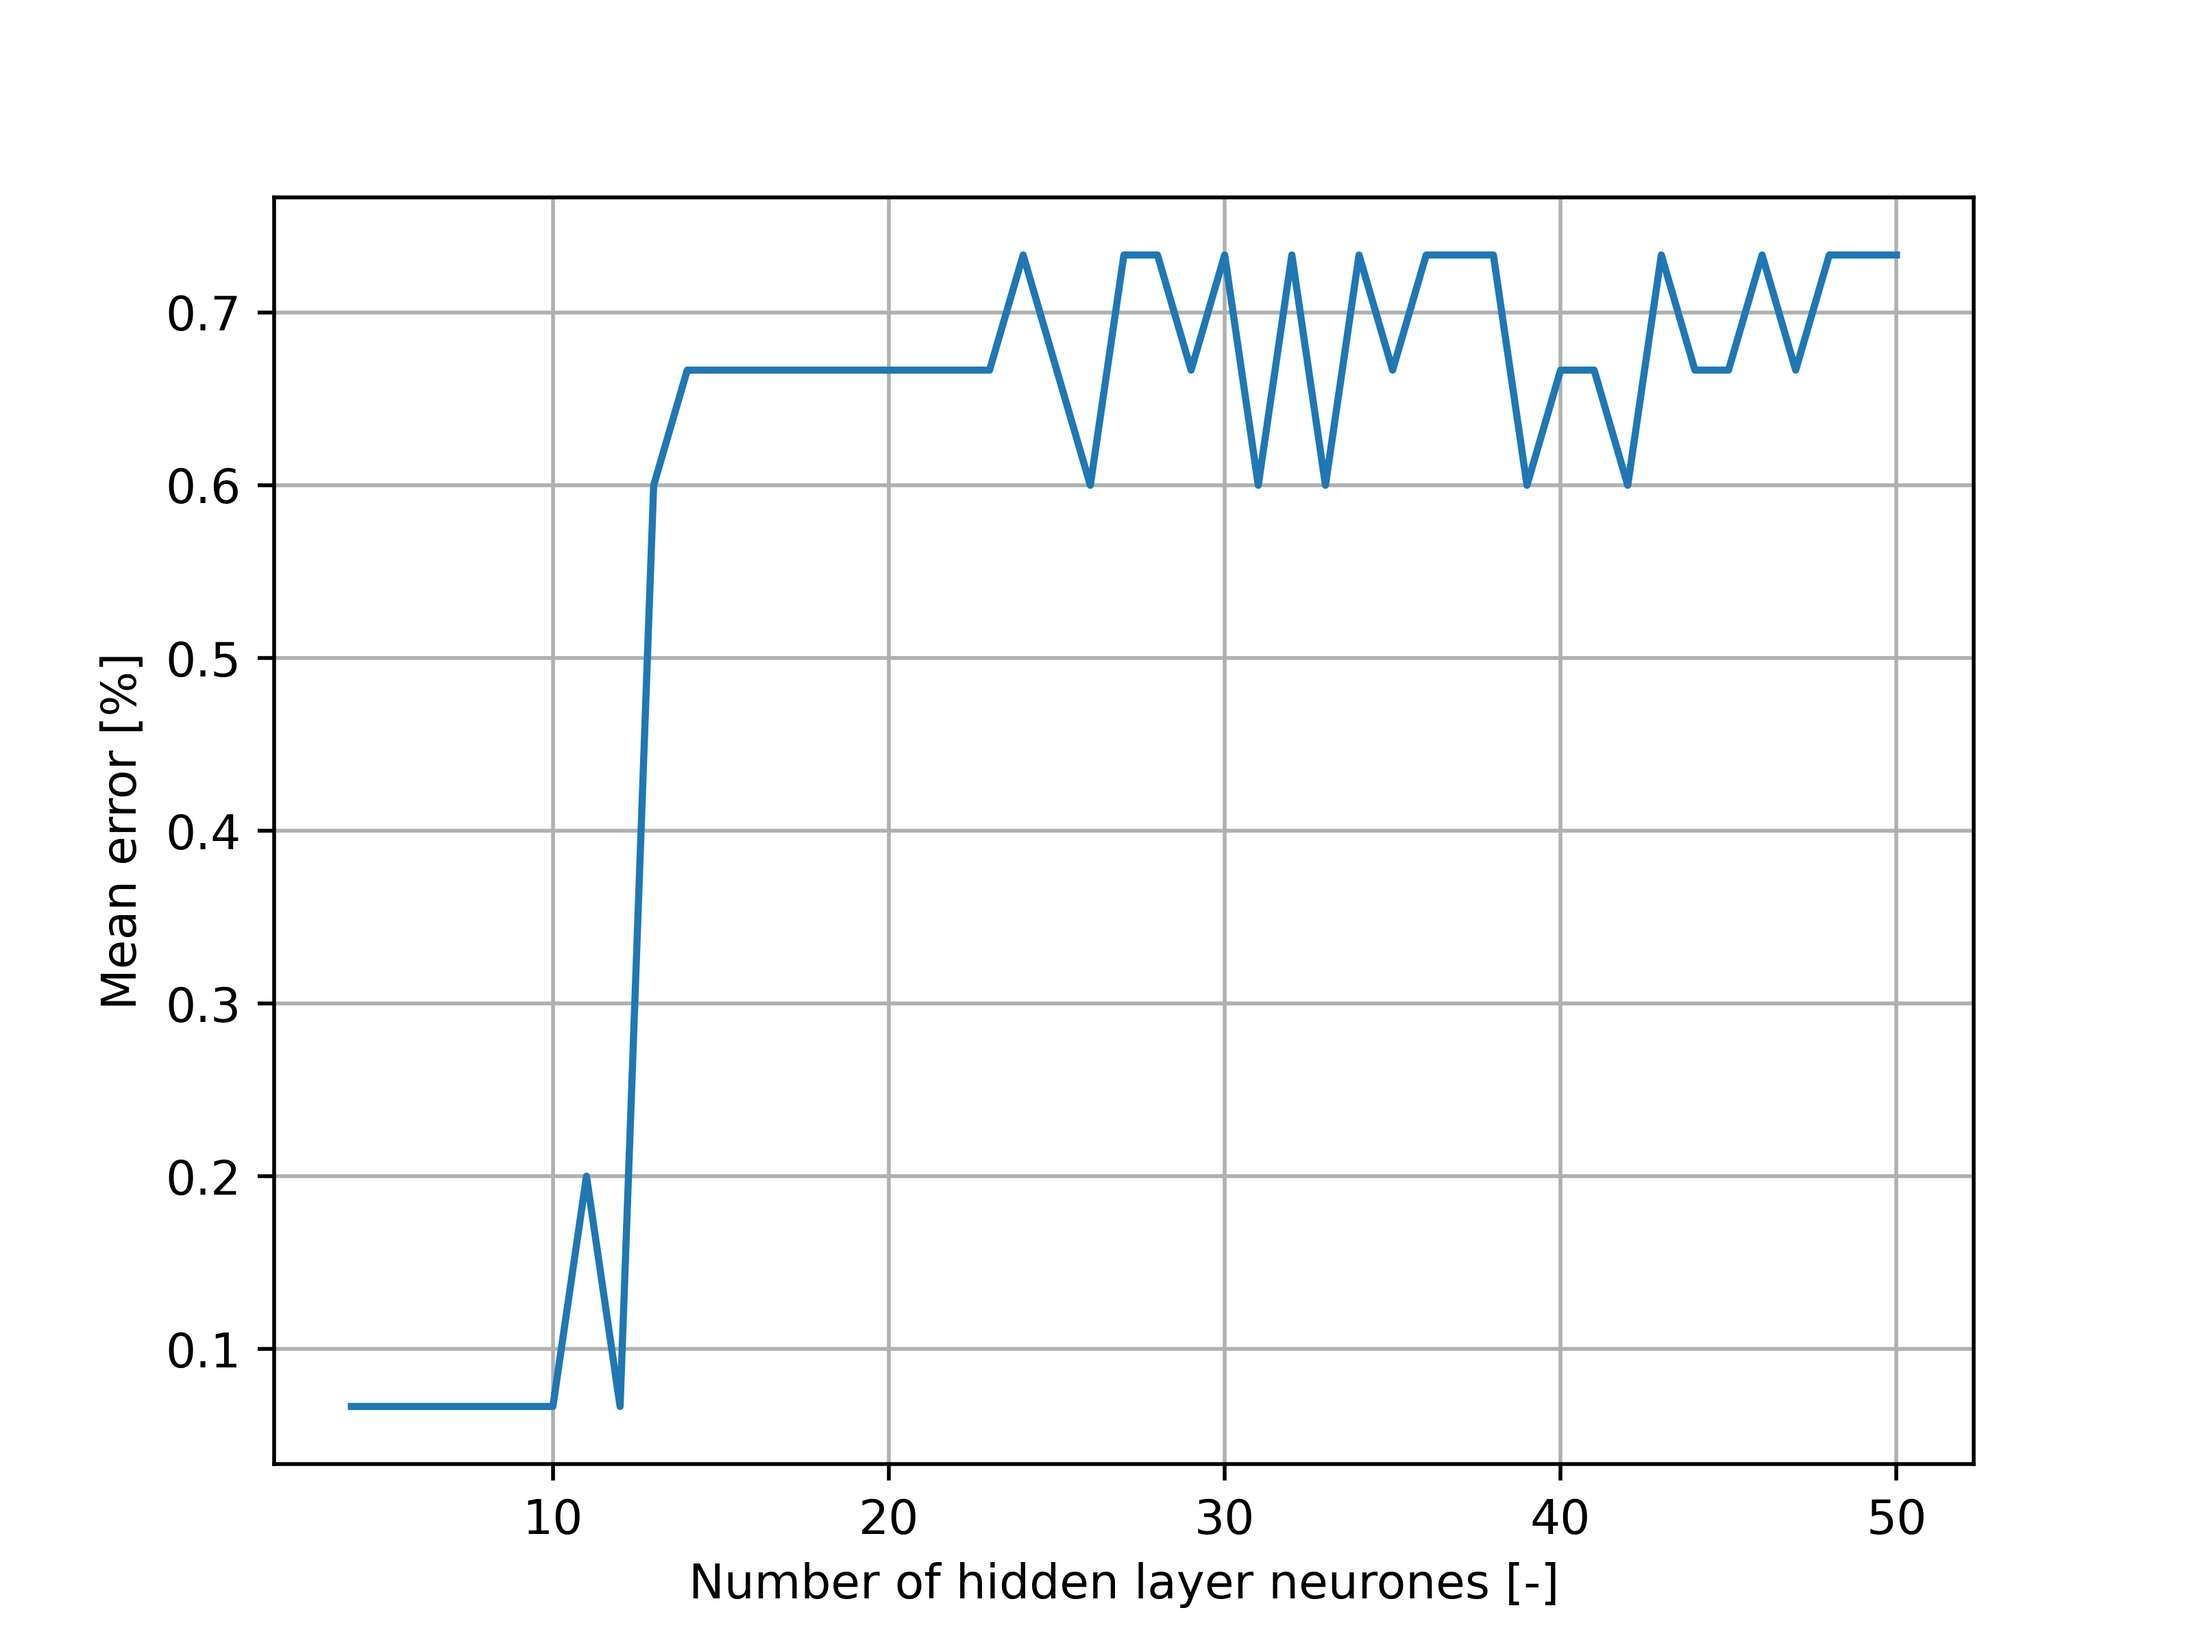
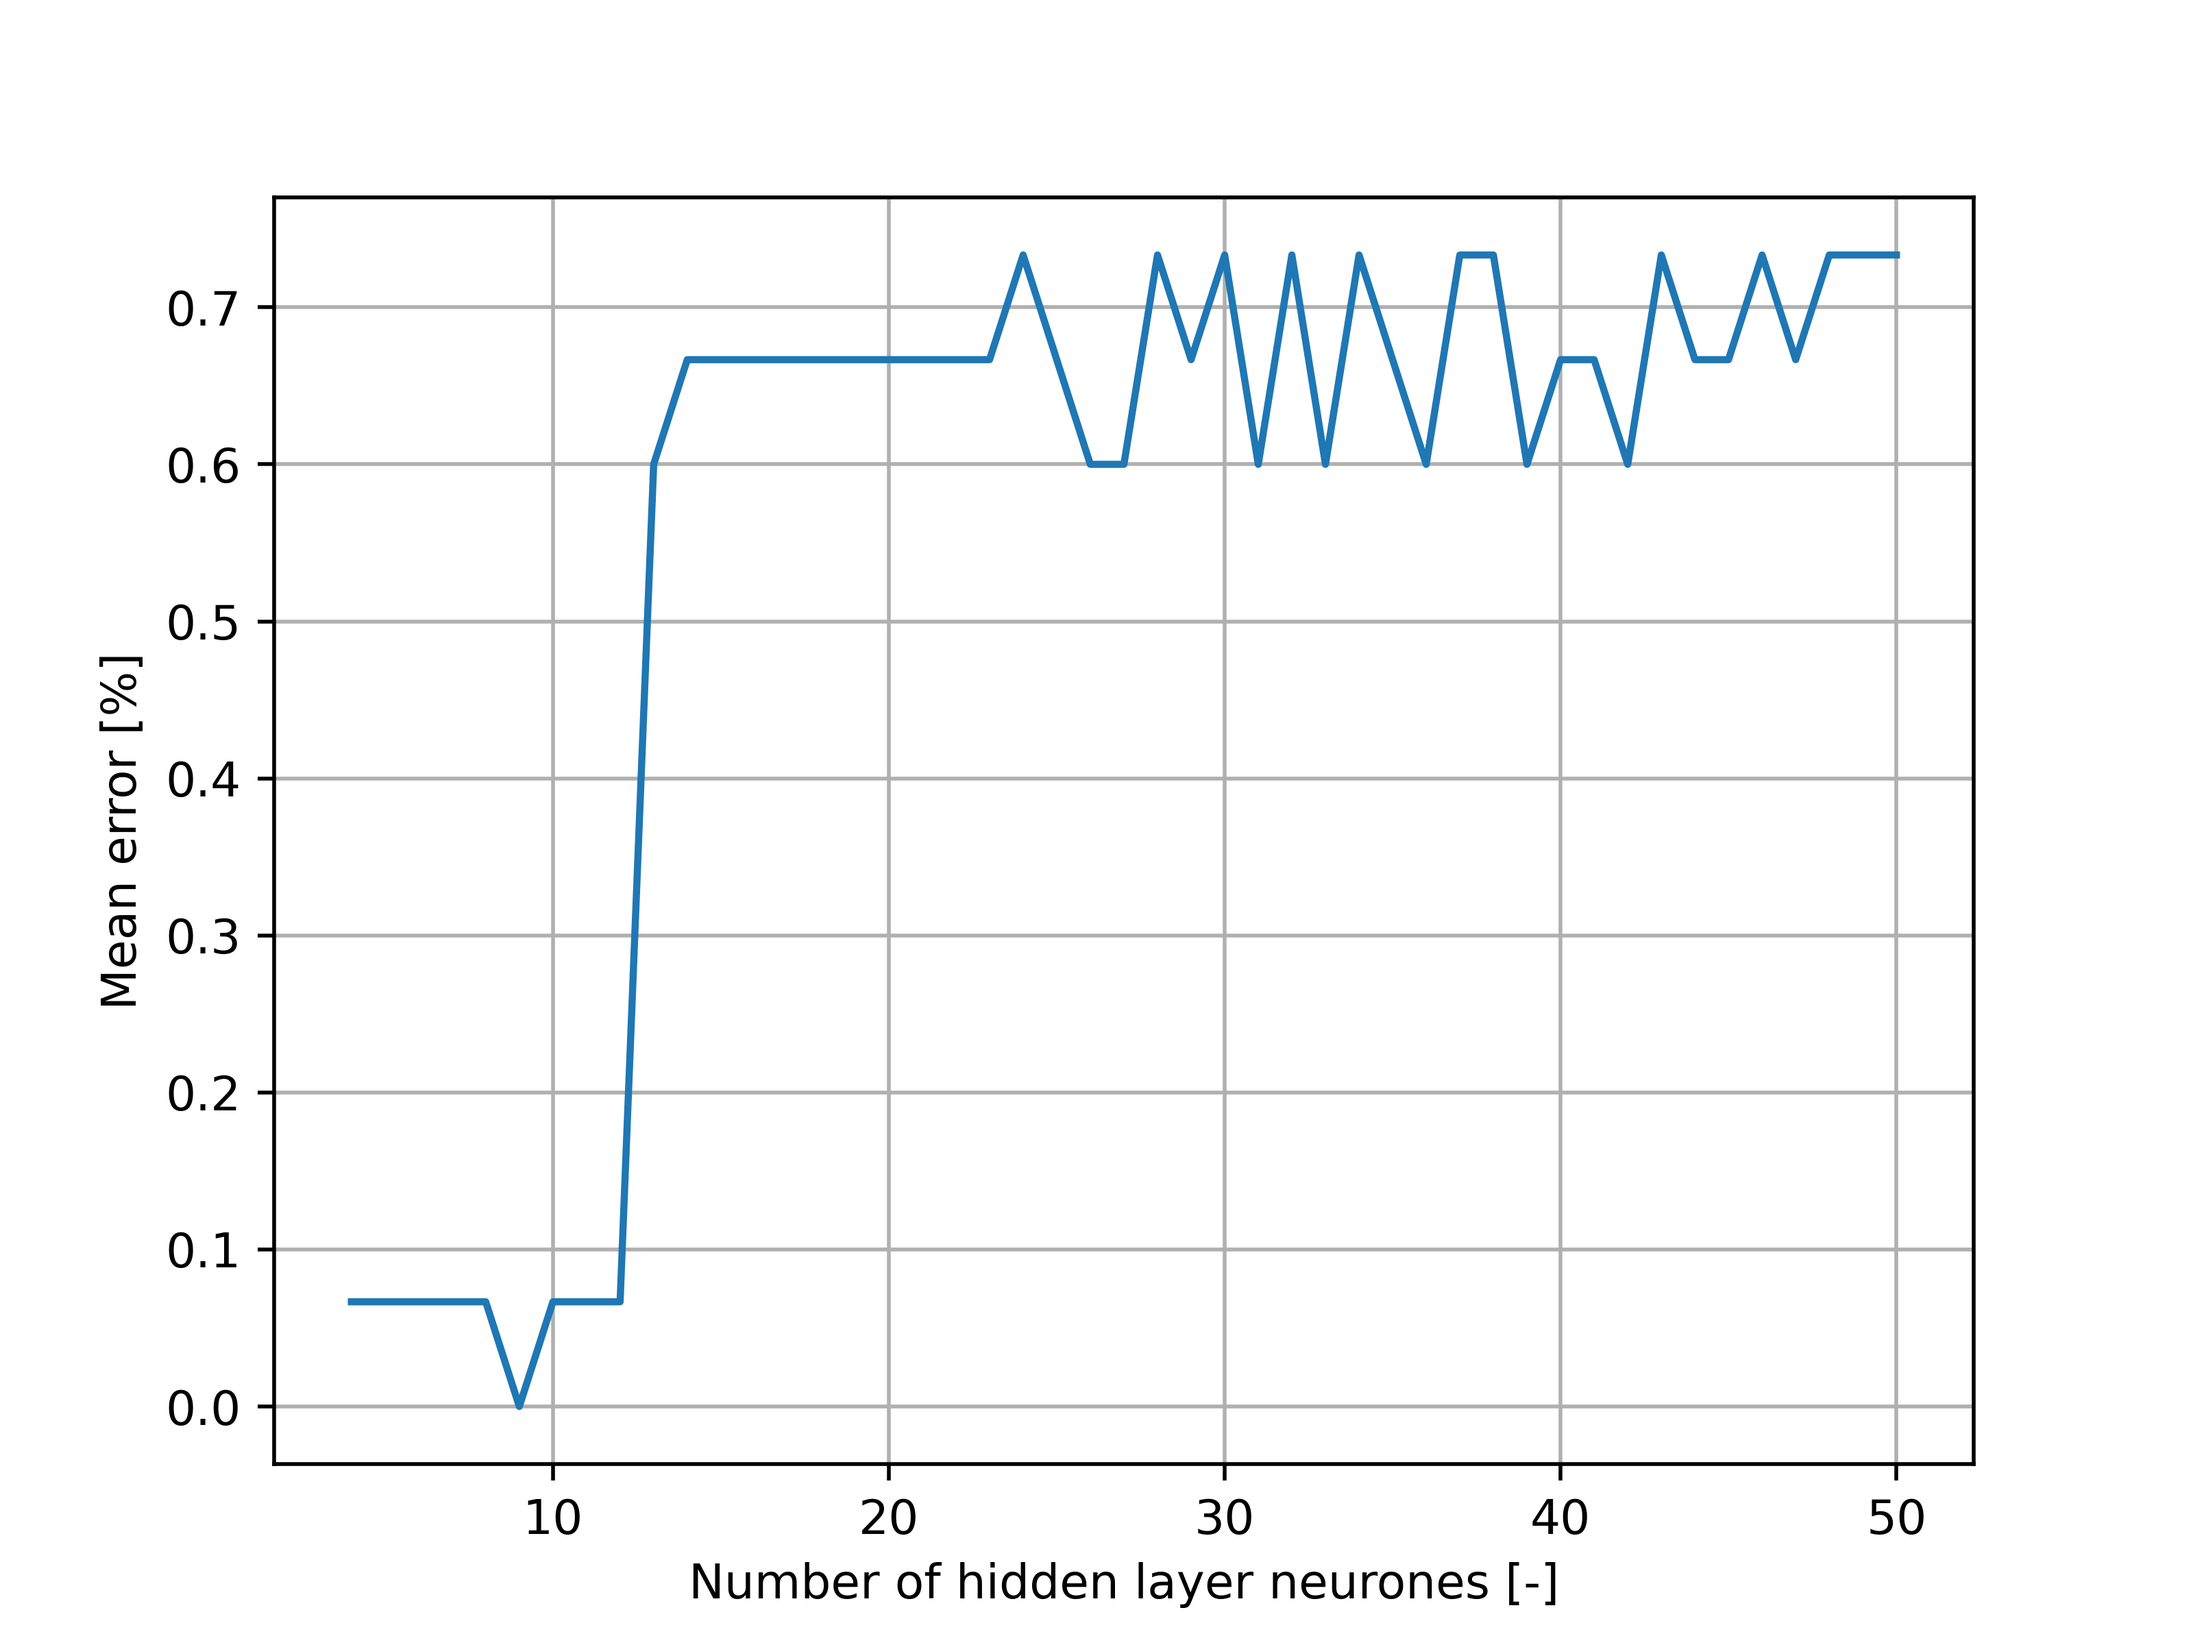
avec res

diff --git a/Projet Final AI/Code/NeuralNet.py b/Projet Final AI/Code/NeuralNet.py
@@ -373,9 +373,9 @@ class NeuralNet(Classifier):
             a = nn.test2(k_split_train[k - 1], k_split_train_labels[k - 1], False)
             mean_errors.append(1.0 - a)
             n_neurone.append(i)
+            plt.clf()
         if plot_results:
             plt.plot(n_neurone, mean_errors)
-            plt.legend()
             plt.grid()
             plt.xlabel("Number of hidden layer neurones [-]")
             plt.ylabel("Mean error [%]")
@@ -395,6 +395,7 @@ class NeuralNet(Classifier):
         k_split_train = np.array_split(train_set, k, axis=0)
         k_split_train_labels = np.array_split(train_label, k, axis=0)
         count = 1
+        plt.clf()
         for i, nn in enumerate(to_test):
             for j in range(k - 1):
                 nn.train(k_split_train[j], k_split_train_labels[j], retest=False, verbose=False)
@@ -402,14 +403,15 @@ class NeuralNet(Classifier):
             mean_errors.append(1.0 - a)
             n_layer.append(count)
             count += 1
+
             if plot_results:
                 if i == len(to_test) - 1:
                     nn.plot_learning_curve(train_set, train_label, test_set, test_labels, display=True, prn=1,
-                                           save_name=f"lc_nn_nb_layer_{kwargs.get('savename', 'unamed')}", block=False, display_legend=True, label=f"Nb layer: {n_layer[i]}")
+                                           save_name=f"lc_nn_nb_layer_{kwargs.get('save_name', 'unamed')}", block=False, display_legend=True, label=f"Nb layer: {n_layer[i]}")
                 else:
                     nn.plot_learning_curve(train_set, train_label, test_set, test_labels, display=False, prn=1,
-                                           save_name=f"lc_nn_nb_layer_{kwargs.get('savename', 'unamed')}", block=False, display_legend=True, label=f"Nb layer: {n_layer[i]}")
-
+                                           save_name=f"lc_nn_nb_layer_{kwargs.get('save_name', 'unamed')}", block=False, display_legend=True, label=f"Nb layer: {n_layer[i]}")
+        plt.clf()
         plt.plot(n_layer, mean_errors)
         plt.grid()
         plt.xlabel("Number of hidden layer neurones [-]")
@@ -433,7 +435,7 @@ if __name__ == "__main__":
     prn = 1  # number of training per training_size for the compute of the Learning curve
 
     confusionMatrixList: list = list()
-
+    """
     print(f"Train ratio: {train_ratio_nn}")
     print("\n")
 
@@ -446,7 +448,7 @@ if __name__ == "__main__":
     nbr_layer_iris = NeuralNet.get_best_number_of_layer(iris_train, iris_train_labels,iris_test, iris_test_labels, nbr_neurone_iris, save_name="iris")
     iris_nn = NeuralNet(nbr_layer_iris, nbr_neurone_iris, np.unique(iris_train_labels).size)
     iris_nn.plot_learning_curve(iris_train, iris_train_labels, iris_test, iris_test_labels, save_name="iris_NN",
-                                prn=prn)
+                                prn=prn, block=False)
     iris_nn.train(iris_train, iris_train_labels)
     cm, _, _, _ = iris_nn.test(iris_test, iris_test_labels)
 
@@ -481,18 +483,21 @@ if __name__ == "__main__":
     print(f"\n --- Elapse time: {1_000 * endTime:.2f} ms --- \n")
 
     print('-' * 175)
-    for i in range(3):
+    """
+    for i in range(1,3):
         print(f"Monks({i + 1}) dataset classification: \n")
         startTime = time.time()
 
         monks_train, monks_train_labels, monks_test, monks_test_labels = load_datasets.load_monks_dataset(i + 1)
+
         nbr_neurone_monks = NeuralNet.get_best_number_of_hidden_neurone(monks_train, monks_train_labels,
-                                                                        save_name=f"monks{i + 1}_NN")
+                                                    save_name=f"monks{i + 1}_NN")
+
         nbr_layer_monks = NeuralNet.get_best_number_of_layer(monks_train, monks_train_labels ,monks_test, monks_test_labels, nbr_neurone_monks,save_name=f"monks{i + 1}_NN")
         monks_nn = NeuralNet(nbr_layer_monks, nbr_neurone_monks, np.unique(monks_train_labels).size)
 
         monks_nn.plot_learning_curve(monks_train, monks_train_labels,
-                                     monks_test, monks_test_labels, save_name=f"monks{i + 1}_NN", prn=prn)
+                                     monks_test, monks_test_labels, save_name=f"monks{i + 1}_NN", prn=prn,block=False)
 
         monks_nn.train(monks_train, monks_train_labels)
         cm, _, _, _ = monks_nn.test(monks_test, monks_test_labels)
